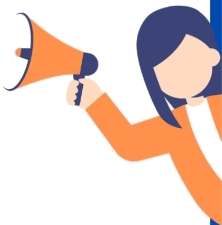
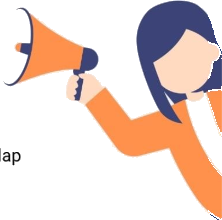
fix(flyer): clean mascot blue strip, eliminate text overlap, and remove bottom sticker artifact

diff --git a/public/js/admin.js b/public/js/admin.js
@@ -6048,6 +6048,9 @@ function renderPosterCanvas() {
     if (loadedCustomTemplateImg) {
       // Draw user's custom uploaded background theme
       ctx.drawImage(loadedCustomTemplateImg, 0, 0, width, height);
+      // Clean up any stray watermark/sticker at bottom left (around x: 60..250, y: 980..1150)
+      ctx.fillStyle = '#ffffff';
+      ctx.fillRect(60, 980, 220, 160);
     } else {
       // Royal blue outer canvas background
       ctx.fillStyle = '#0052cc';
@@ -6072,13 +6075,11 @@ function renderPosterCanvas() {
     ctx.fillRect((width - headerW) / 2 - 8, 126, headerW + 16, 5.5);
 
     // 3. COMPANY NAME (Uppercase, bold black, smart 2-line wrap if long)
-    ctx.font = '900 40px "Plus Jakarta Sans", Arial, sans-serif';
-    ctx.fillStyle = '#000000';
     let compText = (company || 'PT CHOCOMORY COKELAT PERSADA').trim().toUpperCase();
-
     let compLine1 = '';
     let compLine2 = '';
-    if (ctx.measureText(compText).width > 780 || compText.includes('CHOCOMORY')) {
+
+    if (compText.length > 26 || compText.includes('(') || compText.includes('MANUFACTURING') || compText.includes('CHOCOMORY')) {
       const words = compText.split(' ');
       if (words.length >= 2) {
         const mid = Math.ceil(words.length / 2);
@@ -6091,32 +6092,39 @@ function renderPosterCanvas() {
       compLine1 = compText;
     }
 
-    let badgeY = 252;
+    let compFontSize = compLine2 ? 36 : 40;
+    ctx.font = `900 ${compFontSize}px "Plus Jakarta Sans", Arial, sans-serif`;
+    while ((ctx.measureText(compLine1).width > 860 || ctx.measureText(compLine2).width > 860) && compFontSize > 20) {
+      compFontSize -= 1;
+      ctx.font = `900 ${compFontSize}px "Plus Jakarta Sans", Arial, sans-serif`;
+    }
+
+    let badgeY = 255;
     if (compLine2) {
-      ctx.fillText(compLine1, width / 2, 178);
-      ctx.fillText(compLine2, width / 2, 226);
-      badgeY = 262;
+      ctx.fillText(compLine1, width / 2, 172);
+      ctx.fillText(compLine2, width / 2, 214);
+      badgeY = 258;
     } else {
-      ctx.fillText(compLine1, width / 2, 190);
+      ctx.fillText(compLine1, width / 2, 185);
       badgeY = 248;
     }
 
     // 4. POSITION RIBBON CHEVRON BADGE
     const badgeX = 52;
-    const badgeH = 56;
+    const badgeH = 54;
     const displayTitle = (title || 'OPERATOR PRODUKSI').trim().toUpperCase();
-    const maxBadgeLimit = (drawMascotOnCustom && hasMascot) ? 550 : 960;
+    const maxBadgeLimit = (drawMascotOnCustom && hasMascot) ? 580 : 960;
 
     let roleFontSize = 26;
     ctx.font = `900 ${roleFontSize}px "Plus Jakarta Sans", Arial, sans-serif`;
-    while (ctx.measureText(displayTitle).width > (maxBadgeLimit - 76) && roleFontSize > 14) {
+    while (ctx.measureText(displayTitle).width > (maxBadgeLimit - 80) && roleFontSize > 13) {
       roleFontSize -= 1;
       ctx.font = `900 ${roleFontSize}px "Plus Jakarta Sans", Arial, sans-serif`;
     }
 
     const titleTextW = ctx.measureText(displayTitle).width;
     const chevronIndent = 24;
-    const badgeW = Math.max(280, Math.min(maxBadgeLimit, titleTextW + 54 + chevronIndent));
+    const badgeW = Math.max(260, Math.min(maxBadgeLimit, titleTextW + 54 + chevronIndent));
 
     ctx.fillStyle = '#0052cc';
     ctx.beginPath();
@@ -6135,18 +6143,18 @@ function renderPosterCanvas() {
     // 5. EXACT REFERENCE MEGAPHONE MASCOT IMAGE (RIGHT)
     if (drawMascotOnCustom && hasMascot) {
       if (selectedMascot === 'corporate' && loadedMascotCache['corporate']) {
-        drawMascotOnCanvas(ctx, loadedMascotCache['corporate'], 640, 180, 390, 500);
+        drawMascotOnCanvas(ctx, loadedMascotCache['corporate'], 720, 235, 330, 480);
       } else {
-        const mascotW = 440;
-        const mascotH = Math.round(mascotW * (225 / 222)); // ~446
-        const mascotX = width - mascotW - 22; // Flush with inner card margin
-        const mascotY = 175;
+        const mascotW = 328;
+        const mascotH = Math.round(mascotW * (220 / 222)); // ~325px
+        const mascotX = width - mascotW - 22; // 730px
+        const mascotY = 245; // Starts comfortably BELOW the company name
         drawMegaphoneMascotIllustration(ctx, mascotX, mascotY, mascotW, mascotH);
       }
     }
 
     // 6. QUALIFICATIONS SECTION ("Kualifikasi")
-    const kualY = badgeY + badgeH + 42;
+    const kualY = badgeY + badgeH + 38;
     ctx.textAlign = 'left';
     ctx.fillStyle = '#000000';
     ctx.font = '800 28px "Plus Jakarta Sans", Arial, sans-serif';
@@ -6163,10 +6171,10 @@ function renderPosterCanvas() {
           'Bersedia ditempatkan di Cisarua, Kab Bogor'
         ]);
 
-    let curItemY = kualY + 40;
-    const maxKualW = (drawMascotOnCustom && hasMascot) ? 500 : 960;
-    const itemFontSize = activeList.length > 6 ? 20 : 21;
-    const itemLineH = activeList.length > 6 ? 30 : 33;
+    let curItemY = kualY + 38;
+    const maxKualW = (drawMascotOnCustom && hasMascot) ? 540 : 960;
+    const itemFontSize = activeList.length > 6 ? 19 : 21;
+    const itemLineH = activeList.length > 6 ? 29 : 33;
     ctx.font = `600 ${itemFontSize}px "Plus Jakarta Sans", Arial, sans-serif`;
 
     activeList.slice(0, 7).forEach((item) => {
@@ -6195,9 +6203,9 @@ function renderPosterCanvas() {
 
     // 7. BOTTOM-LEFT APPLICATION CARD (3D BLUE DROP SHADOW)
     const appBoxX = 52;
-    const appBoxY = 745;
-    const appBoxW = 590;
-    const appBoxH = 210;
+    const appBoxY = 780;
+    const appBoxW = 600;
+    const appBoxH = 220;
 
     // Solid blue 3D offset shadow underneath
     ctx.fillStyle = '#0052cc';
@@ -6214,26 +6222,26 @@ function renderPosterCanvas() {
     ctx.textAlign = 'left';
     ctx.fillStyle = '#000000';
     ctx.font = '700 20px "Plus Jakarta Sans", Arial, sans-serif';
-    ctx.fillText('Kirim CV/Lamaran melalui Scan QR Code atau link', appBoxX + 22, appBoxY + 44);
+    ctx.fillText('Kirim CV/Lamaran melalui Scan QR Code atau link', appBoxX + 22, appBoxY + 46);
 
     const cleanEmail = (applyInfo.includes('@') ? applyInfo.match(/[a-zA-Z0-9._%+-]+@[a-zA-Z0-9.-]+\.[a-zA-Z]{2,}/)?.[0] : null) || 'recruitment2@chocomory.com';
     ctx.font = '700 20px "Plus Jakarta Sans", Arial, sans-serif';
     const emailPrefix = 'atau melalui email : ';
-    ctx.fillText(emailPrefix, appBoxX + 22, appBoxY + 82);
+    ctx.fillText(emailPrefix, appBoxX + 22, appBoxY + 86);
     const prefixW = ctx.measureText(emailPrefix).width;
 
     ctx.font = '800 20px "Plus Jakarta Sans", Arial, sans-serif';
-    ctx.fillText(cleanEmail, appBoxX + 22 + prefixW, appBoxY + 82);
+    ctx.fillText(cleanEmail, appBoxX + 22 + prefixW, appBoxY + 86);
     const emailW = ctx.measureText(cleanEmail).width;
-    ctx.fillRect(appBoxX + 22 + prefixW, appBoxY + 86, emailW, 2);
+    ctx.fillRect(appBoxX + 22 + prefixW, appBoxY + 90, emailW, 2);
 
     ctx.font = '700 20px "Plus Jakarta Sans", Arial, sans-serif';
-    ctx.fillText('Subject email: Lamaran_Posisi yang dilamar_Nama', appBoxX + 22, appBoxY + 126);
+    ctx.fillText('Subject email: Lamaran_Posisi yang dilamar_Nama', appBoxX + 22, appBoxY + 132);
 
     ctx.fillStyle = '#334155';
     ctx.font = '600 18px "Plus Jakarta Sans", Arial, sans-serif';
     const shortPos = (title || 'Operator Produksi').substring(0, 20);
-    ctx.fillText(`(Contoh: Lamaran_${shortPos}_Dimas)`, appBoxX + 22, appBoxY + 166);
+    ctx.fillText(`(Contoh: Lamaran_${shortPos}_Dimas)`, appBoxX + 22, appBoxY + 172);
 
     // 8. BOTTOM-LEFT FOOTER (TIKTOK & HASHTAG)
     const footLeftX = 52;
@@ -6262,8 +6270,8 @@ function renderPosterCanvas() {
 
     // 9. BOTTOM-RIGHT QR CODE SECTION
     const qrSize = 230;
-    const qrBoxX = 695;
-    const qrBoxY = 725;
+    const qrBoxX = 710;
+    const qrBoxY = 780;
 
     ctx.textAlign = 'center';
     ctx.fillStyle = '#000000';

diff --git a/public/admin.html b/public/admin.html
@@ -1920,6 +1920,6 @@
     </div>
   </div>
 
-  <script src="./js/admin.js?v=20261031_10"></script>
+  <script src="./js/admin.js?v=20261031_11"></script>
 </body>
 </html>
